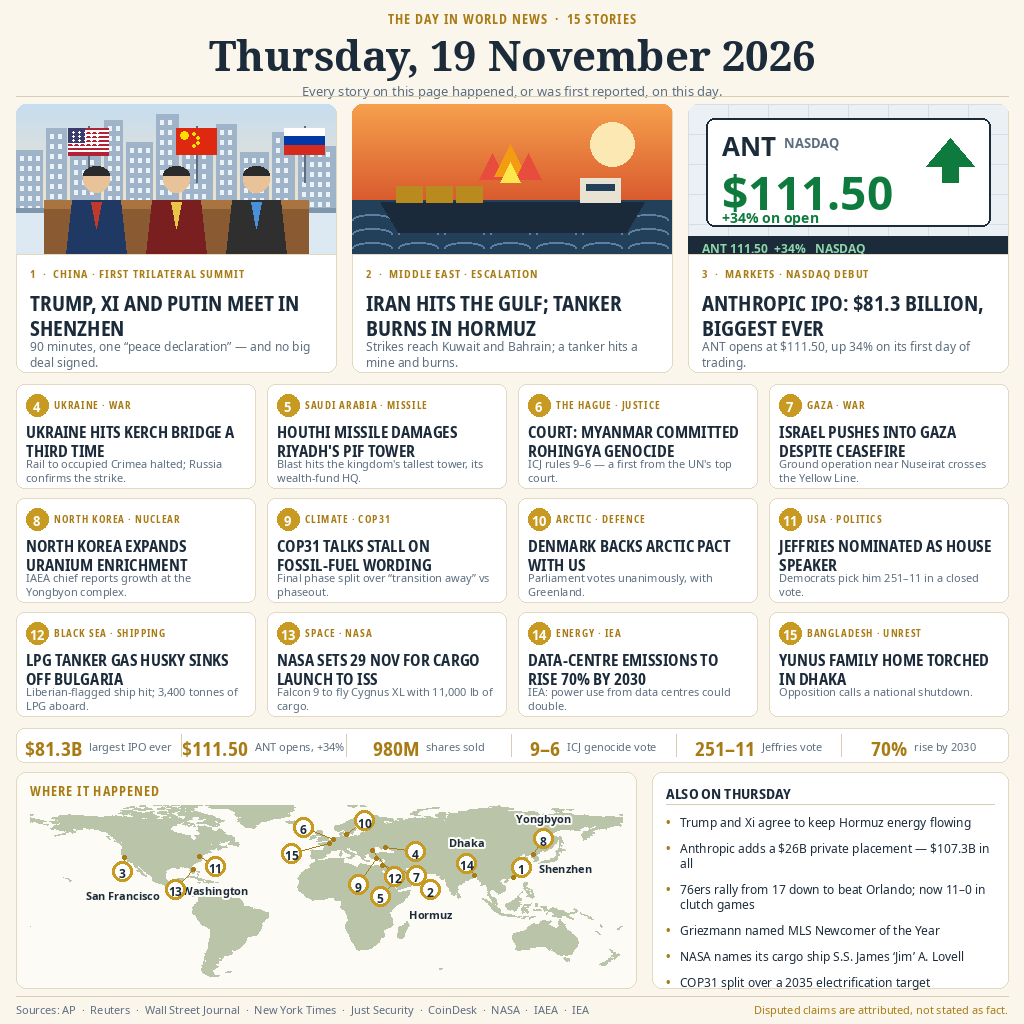
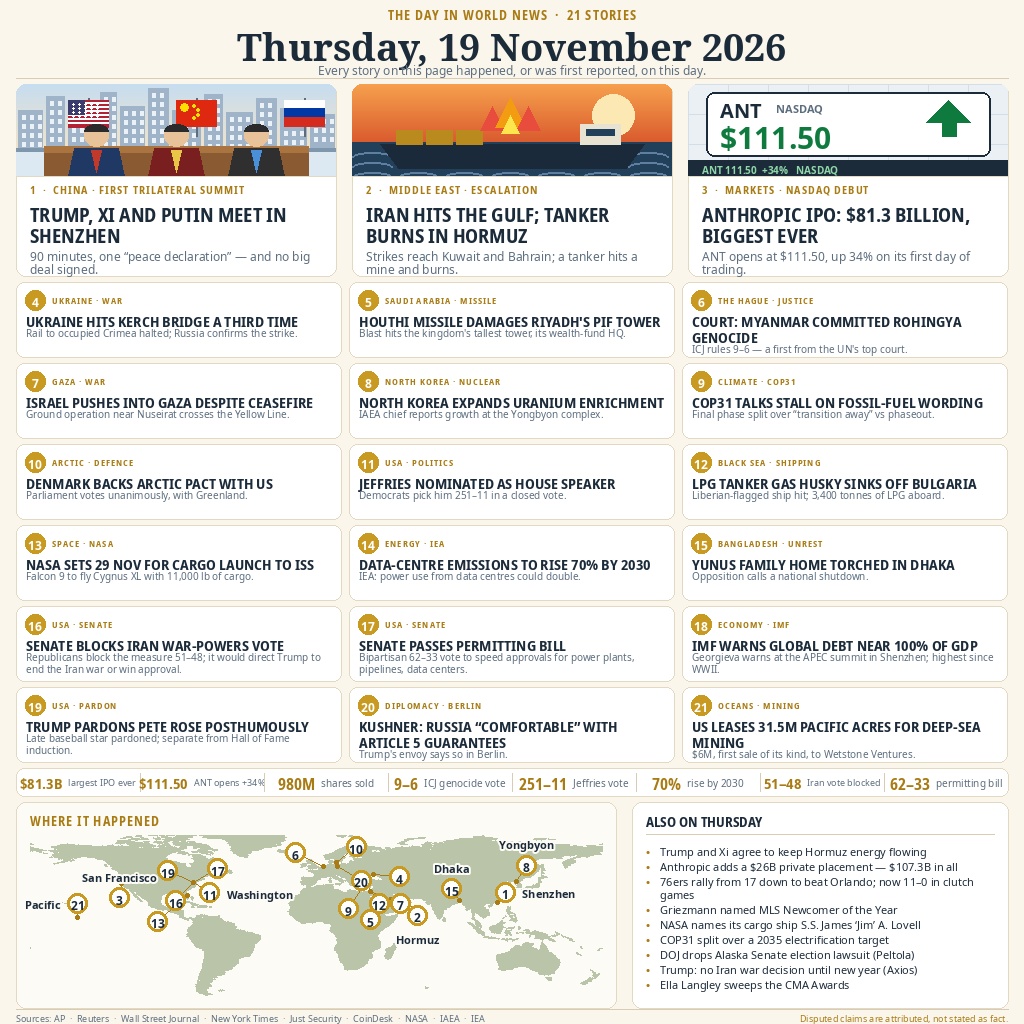
One Day in November — 19 November 2026 v2: 21 stories

diff --git a/main.ts b/main.ts
@@ -1,29 +1,28 @@
 // SPDX-License-Identifier: MIT
 //
-// News-image-20261119 entry: "One Day in November — 19 November 2026".
-// The poster is entry.png next to this file; this program's only job is
-// to place an exact copy of it at /output/entry.png, twice byte-identical.
-// Node 22, standard library only, no network.
+// News-image-20261119 v2: "One Day in November — 19 November 2026".
+// The poster lives in entry.png beside this file. This program does
+// one thing only: copy those exact bytes to /output/entry.png, so both
+// grading runs produce the same file. Node 22, stdlib only, no network.
 //
-// The poster: a light, airy front page for Thursday 19 November 2026.
-// Three large hero scenes (the first Trump–Xi–Putin trilateral in
-// Shenzhen; Iran's Gulf escalation and a burning tanker in Hormuz;
-// Anthropic's record $81.3B IPO, ANT opening at $111.50), twelve compact
-// stories, a numbers strip, a large numbered world map with one dot per
-// headline, and six more angles in ALSO ON. 15 stories in all, every one
-// verified as 19 November 2026 news. Disputed claims are attributed.
+// The poster: a light front page for Thursday 19 November 2026. Three
+// large hero scenes (the first Trump-Xi-Putin trilateral in Shenzhen;
+// Iran's Gulf escalation and a burning tanker in Hormuz; Anthropic's
+// record $81.3B IPO, ANT opening at $111.50), eighteen compact stories
+// in a 3x6 grid, an eight-box numbers strip, a large numbered world map
+// with one dot per located story, and nine more angles in ALSO ON.
+// 21 stories in all, every one verified as 19 November 2026 news.
 import { mkdirSync, readFileSync, statSync, writeFileSync } from "node:fs";
 import { dirname, join } from "node:path";
 import { fileURLToPath } from "node:url";
 
 const here = dirname(fileURLToPath(import.meta.url));
-const destDir = process.env.MAKEFUN_OUTPUT_DIR ?? "/output";
-mkdirSync(destDir, { recursive: true });
-const src = join(here, "entry.png");
-const bytes = readFileSync(src);
-const out = join(destDir, "entry.png");
-writeFileSync(out, bytes);
-// Fail loudly instead of shipping a truncated copy.
-if (statSync(out).size !== bytes.length) {
-  throw new Error(`entry.png write mismatch: ${statSync(out).size} != ${bytes.length}`);
+const outDir = process.env.MAKEFUN_OUTPUT_DIR ?? "/output";
+mkdirSync(outDir, { recursive: true });
+const bytes = readFileSync(join(here, "entry.png"));
+const target = join(outDir, "entry.png");
+writeFileSync(target, bytes);
+const written = statSync(target).size;
+if (written !== bytes.length) {
+  throw new Error(`entry.png copy failed: ${written} != ${bytes.length}`);
 }

diff --git a/README.md b/README.md
@@ -5,10 +5,10 @@
 [![reward](https://make.fun/badge/news-image-20261119/hotlinebro/news-image-20261119/reward.svg)](https://make.fun/bounty/news-image-20261119)
 
 One poster that sums up Thursday 19 November 2026, on a light, airy
-front page: three large hero scenes, twelve compact stories, a numbers
-strip, a large numbered world map with one dot per headline, and six more
-angles in ALSO ON. 15 stories in all. Every story was verified as a
-19 November 2026 event (or first reported that day) before drawing;
+front page: three large hero scenes, eighteen compact stories, a numbers
+strip, a large numbered world map with one dot per located headline, and
+nine more angles in ALSO ON. 21 stories in all. Every story was verified
+as a 19 November 2026 event (or first reported that day) before drawing;
 disputed claims are attributed, not stated as fact.
 
 - **Lead:** Trump, Xi and Putin meet in Shenzhen — the first trilateral
@@ -34,12 +34,20 @@ disputed claims are attributed, not stated as fact.
   with 3,400 tonnes of LPG aboard; NASA sets 29 November for a Falcon 9
   cargo launch to the ISS; the IEA says data-centre emissions rise 70%
   by 2030; a Yunus family home is torched in Dhaka.
+- **New in v2 — Washington and beyond:** the Senate blocks the Iran
+  war-powers vote 51–48 and passes a permitting bill 62–33; the IMF
+  warns global debt is near 100% of GDP; Trump pardons Pete Rose
+  posthumously; Kushner says Russia is "comfortable" with Article 5
+  guarantees; the US leases 31.5 million Pacific acres for deep-sea
+  mining, $6 million, a first of its kind.
 
 Also on Thursday: Trump and Xi on Hormuz, Anthropic's $26 billion
 private placement ($107.3 billion in all), the 76ers rallying from 17
 down to beat Orlando, Griezmann named MLS Newcomer of the Year, NASA's
-cargo ship named S.S. James 'Jim' A. Lovell, and COP31's split over a
-2035 electrification target.
+cargo ship named S.S. James 'Jim' A. Lovell, COP31's split over a
+2035 electrification target, the DOJ dropping the Alaska Senate election
+lawsuit, Trump saying no Iran war decision until the new year, and Ella
+Langley sweeping the CMA Awards.
 
 The image is drawn programmatically (Python + Pillow, Noto Sans) so
 every word stays crisp — no AI-generated garbled text. Sources: AP,
@@ -49,19 +57,19 @@ NASA, IAEA, IEA.
 ## Entry
 
 `main.ts` (Node 22, stdlib only) copies `entry.png` to
-`/output/entry.png`. The image is 1024×1024, 165,811 bytes (under 1 MiB).
+`/output/entry.png`. The image is 1024×1024, 188,719 bytes (under 1 MiB).
 Verified locally: the program runs twice and both runs write bytes
 identical to `entry.png`.
 
 ## Validation
 
-- Legibility checked at 360 px wide (phone size): the date, the three
+- Legibility checked at 300 px wide (phone size): the date, the three
   hero headlines, the numbers strip and the map stay readable.
 - Numbers strip uses only verified figures: $81.3B, $111.50, 980M,
-  9–6, 251–11, 70%.
-- The map carries one dot per headline (15 dots); the crowded
-  Europe/Mediterranean dots are staggered with leader lines to their
-  true locations.
+  9–6, 251–11, 70%, 51–48, 62–33.
+- The map carries one dot per located headline (19 dots); the crowded
+  Europe and Washington dots are staggered with leader lines to their
+  true locations. The two global stories (IEA, IMF) carry no dot.
 - Kit check is run with the bundle before submission.
 
 ## Bounty
